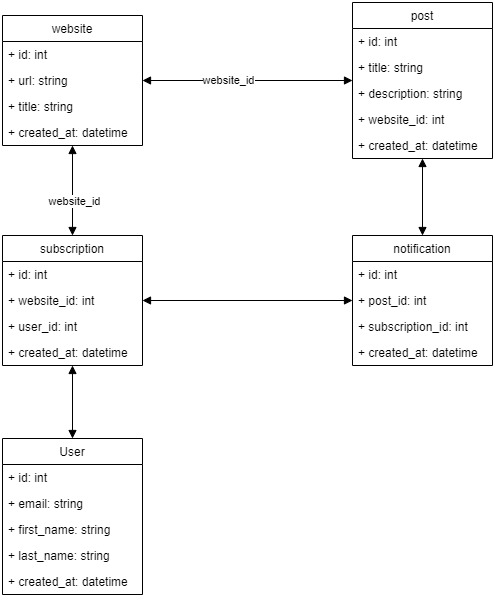
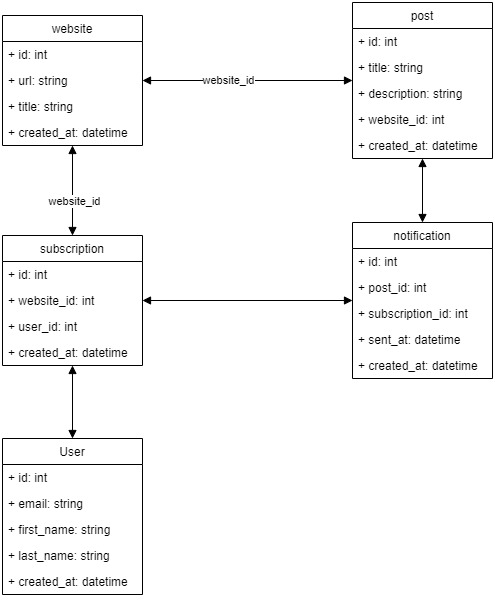
Add migrations

Changed region(s): [[0.7273, 0.36, 0.9697, 0.63]]

diff --git a/database/migrations/2022_09_07_160430_create_notifications_table.php b/database/migrations/2022_09_07_160430_create_notifications_table.php
@@ -1,0 +1,45 @@
+<?php
+
+use App\Constants\TableName;
+use Illuminate\Database\Migrations\Migration;
+use Illuminate\Database\Schema\Blueprint;
+use Illuminate\Support\Facades\Schema;
+
+return new class extends Migration {
+    /**
+     * Run the migrations.
+     *
+     * @return void
+     */
+    public function up()
+    {
+        Schema::create(TableName::NOTIFICATIONS, function (Blueprint $table) {
+            $table->id();
+            $table
+                ->foreignId('post_id')
+                ->constrained(TableName::POSTS)
+                ->restrictOnDelete()
+                ->cascadeOnUpdate();
+            $table
+                ->foreignId('subscription_id')
+                ->nullable(false)
+                ->constrained(TableName::SUBSCRIPTIONS)
+                ->restrictOnDelete()
+                ->cascadeOnUpdate();
+            $table->timestamp('sent_at')->nullable(true);
+            $table->timestamps();
+            // Restrict ourselves from sending / creating notification to same user and post more than once
+            $table->unique(['post_id', 'subscription_id']);
+        });
+    }
+
+    /**
+     * Reverse the migrations.
+     *
+     * @return void
+     */
+    public function down()
+    {
+        Schema::dropIfExists(TableName::NOTIFICATIONS);
+    }
+};

diff --git a/database/migrations/2022_09_07_160305_create_subscriptions_table.php b/database/migrations/2022_09_07_160305_create_subscriptions_table.php
@@ -1,0 +1,45 @@
+<?php
+
+use App\Constants\TableName;
+use Illuminate\Database\Migrations\Migration;
+use Illuminate\Database\Schema\Blueprint;
+use Illuminate\Support\Facades\Schema;
+
+return new class extends Migration {
+    /**
+     * Run the migrations.
+     *
+     * @return void
+     */
+    public function up()
+    {
+        Schema::create(TableName::SUBSCRIPTIONS, function (Blueprint $table) {
+            $table->id();
+            $table
+                ->foreignId('website_id')
+                ->nullable(false)
+                ->constrained(TableName::WEBSITES)
+                ->restrictOnDelete()
+                ->cascadeOnUpdate();
+            $table
+                ->foreignId('user_id')
+                ->nullable(false)
+                ->constrained(TableName::USERS)
+                ->restrictOnDelete()
+                ->cascadeOnUpdate();
+            $table->timestamps();
+            // Restrict the user from subscribing to the same website twice
+            $table->unique(['website_id', 'user_id']);
+        });
+    }
+
+    /**
+     * Reverse the migrations.
+     *
+     * @return void
+     */
+    public function down()
+    {
+        Schema::dropIfExists(TableName::SUBSCRIPTIONS);
+    }
+};

diff --git a/database/migrations/2022_09_07_160244_create_posts_table.php b/database/migrations/2022_09_07_160244_create_posts_table.php
@@ -1,5 +1,6 @@
 <?php
 
+use App\Constants\Size;
 use App\Constants\TableName;
 use Illuminate\Database\Migrations\Migration;
 use Illuminate\Database\Schema\Blueprint;
@@ -13,11 +14,16 @@ return new class extends Migration {
      */
     public function up()
     {
-        Schema::create(TableName::USERS, function (Blueprint $table) {
+        Schema::create(TableName::POSTS, function (Blueprint $table) {
             $table->id();
-            $table->string('first_name');
-            $table->string('last_name');
-            $table->string('email')->unique();
+            $table->string('title', Size::POST_TITLE);
+            $table->string('description', Size::POST_DESCRIPTION);
+            $table
+                ->foreignId('website_id')
+                ->nullable(false)
+                ->constrained(TableName::WEBSITES)
+                ->restrictOnDelete()
+                ->cascadeOnUpdate();
             $table->timestamps();
         });
     }
@@ -29,6 +35,6 @@ return new class extends Migration {
      */
     public function down()
     {
-        Schema::dropIfExists(TableName::USERS);
+        Schema::dropIfExists(TableName::POSTS);
     }
 };

diff --git a/database/migrations/2022_09_07_160217_create_websites_table.php b/database/migrations/2022_09_07_160217_create_websites_table.php
@@ -1,5 +1,6 @@
 <?php
 
+use App\Constants\Size;
 use App\Constants\TableName;
 use Illuminate\Database\Migrations\Migration;
 use Illuminate\Database\Schema\Blueprint;
@@ -13,11 +14,10 @@ return new class extends Migration {
      */
     public function up()
     {
-        Schema::create(TableName::USERS, function (Blueprint $table) {
+        Schema::create(TableName::WEBSITES, function (Blueprint $table) {
             $table->id();
-            $table->string('first_name');
-            $table->string('last_name');
-            $table->string('email')->unique();
+            $table->string('title', Size::WEBSITE_TITLE)->nullable(false);
+            $table->string('url', Size::WEBSITE_URL)->unique()->nullable(false);
             $table->timestamps();
         });
     }
@@ -29,6 +29,6 @@ return new class extends Migration {
      */
     public function down()
     {
-        Schema::dropIfExists(TableName::USERS);
+        Schema::dropIfExists(TableName::WEBSITES);
     }
 };

diff --git a/app/Constants/Size.php b/app/Constants/Size.php
@@ -1,0 +1,19 @@
+<?php
+
+namespace App\Constants;
+
+final class Size
+{
+
+    // The ideal blog post title length is 60 characters but
+    // we'll be generous up 100 characters
+    const POST_TITLE = 100;
+    // Assuming post description limit from the Instagram caption limit
+    // is 2,200 characters.
+    const POST_DESCRIPTION = 2200;
+    const WEBSITE_TITLE = 100;
+    // Microsoft Internet Explorer has a maximum uniform resource
+    // locator (URL) length of 2,083 characters.
+    const WEBSITE_URL = 2083;
+
+}

diff --git a/app/Constants/TableName.php b/app/Constants/TableName.php
@@ -1,0 +1,12 @@
+<?php
+
+namespace App\Constants;
+
+final class TableName
+{
+    const USERS = 'users';
+    const WEBSITES = 'websites';
+    const POSTS = 'posts';
+    const SUBSCRIPTIONS = 'subscriptions';
+    const NOTIFICATIONS = 'notifications';
+}

diff --git a/app/Models/Notification.php b/app/Models/Notification.php
@@ -1,0 +1,11 @@
+<?php
+
+namespace App\Models;
+
+use Illuminate\Database\Eloquent\Factories\HasFactory;
+use Illuminate\Database\Eloquent\Model;
+
+class Notification extends Model
+{
+    use HasFactory;
+}

diff --git a/app/Models/Subscription.php b/app/Models/Subscription.php
@@ -1,0 +1,11 @@
+<?php
+
+namespace App\Models;
+
+use Illuminate\Database\Eloquent\Factories\HasFactory;
+use Illuminate\Database\Eloquent\Model;
+
+class Subscription extends Model
+{
+    use HasFactory;
+}

diff --git a/app/Models/Website.php b/app/Models/Website.php
@@ -1,0 +1,11 @@
+<?php
+
+namespace App\Models;
+
+use Illuminate\Database\Eloquent\Factories\HasFactory;
+use Illuminate\Database\Eloquent\Model;
+
+class Website extends Model
+{
+    use HasFactory;
+}

diff --git a/app/Models/Post.php b/app/Models/Post.php
@@ -1,0 +1,11 @@
+<?php
+
+namespace App\Models;
+
+use Illuminate\Database\Eloquent\Factories\HasFactory;
+use Illuminate\Database\Eloquent\Model;
+
+class Post extends Model
+{
+    use HasFactory;
+}

diff --git a/README.md b/README.md
@@ -13,7 +13,7 @@ php artisan serve
 **MUST:-**
 
 - [x] Use PHP 7.* or 8.*
-- [ ] Write migrations for the required tables.
+- [x] Write migrations for the required tables.
 - [ ] Endpoint to create a "post" for a "particular website".
 - [ ] Endpoint to make a user subscribe to a "particular website" with all the tiny validations included in it.
 - [ ] Use of command to send email to the subscribers (command must check all websites and send all new posts to
